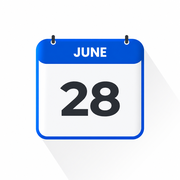
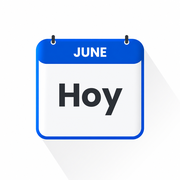
Add files via upload

Changed region(s): [[0.3056, 0.4444, 0.6944, 0.6667]]

diff --git a/index.html b/index.html
@@ -296,12 +296,12 @@
   .item .th .t{flex:0 1 auto}
   /* v34: nombre compacto, cuota y frecuencia siempre en la misma línea */
   .item .th{flex-wrap:nowrap}
-  .item .th{align-items:flex-start}
-  .item .th .t{font-size:16px;letter-spacing:-.35px;line-height:1.25;white-space:normal;min-width:0;flex:0 1 auto;
-    display:-webkit-box;-webkit-line-clamp:2;-webkit-box-orient:vertical;overflow:hidden;word-break:break-word}
-  .item .th{justify-content:space-between;gap:8px}
-  .item .th .tg{align-self:flex-start;margin-top:1px;flex-direction:column;align-items:flex-end;gap:3px;margin-left:auto}
-  .item .th .tg .amt,.item .th .tg .fq{text-align:center}
+  /* v36: nombre · cuota · frecuencia siempre en una sola fila */
+  .item .th{flex-wrap:nowrap;align-items:center;justify-content:flex-start;gap:5px}
+  .item .th .t{font-size:15.5px;letter-spacing:-.4px;line-height:1.3;white-space:nowrap;overflow:hidden;text-overflow:ellipsis;min-width:0;flex:0 1 auto;display:block}
+  .item .th .tg{flex:0 0 auto;flex-direction:row;align-items:center;gap:4px;margin:0}
+  .th .amt{font-size:13.5px;padding:2px 8px}
+  .th .fq{font-size:13px;padding:1px 7px}
   .th .fq{padding:1px 8px}
   .th .amt,.th .fq{letter-spacing:-.15px}
   /* ===== Próxima cuota en la tarjeta (v30) ===== */

diff --git a/sw.js b/sw.js
@@ -1,4 +1,4 @@
-const CACHE = 'tareas-v35';
+const CACHE = 'tareas-v38';
 const ASSETS = ['./', './index.html', './manifest.json', './icon-192.png', './icon-512.png', './apple-touch-icon.png'];
 
 self.addEventListener('install', e => {
